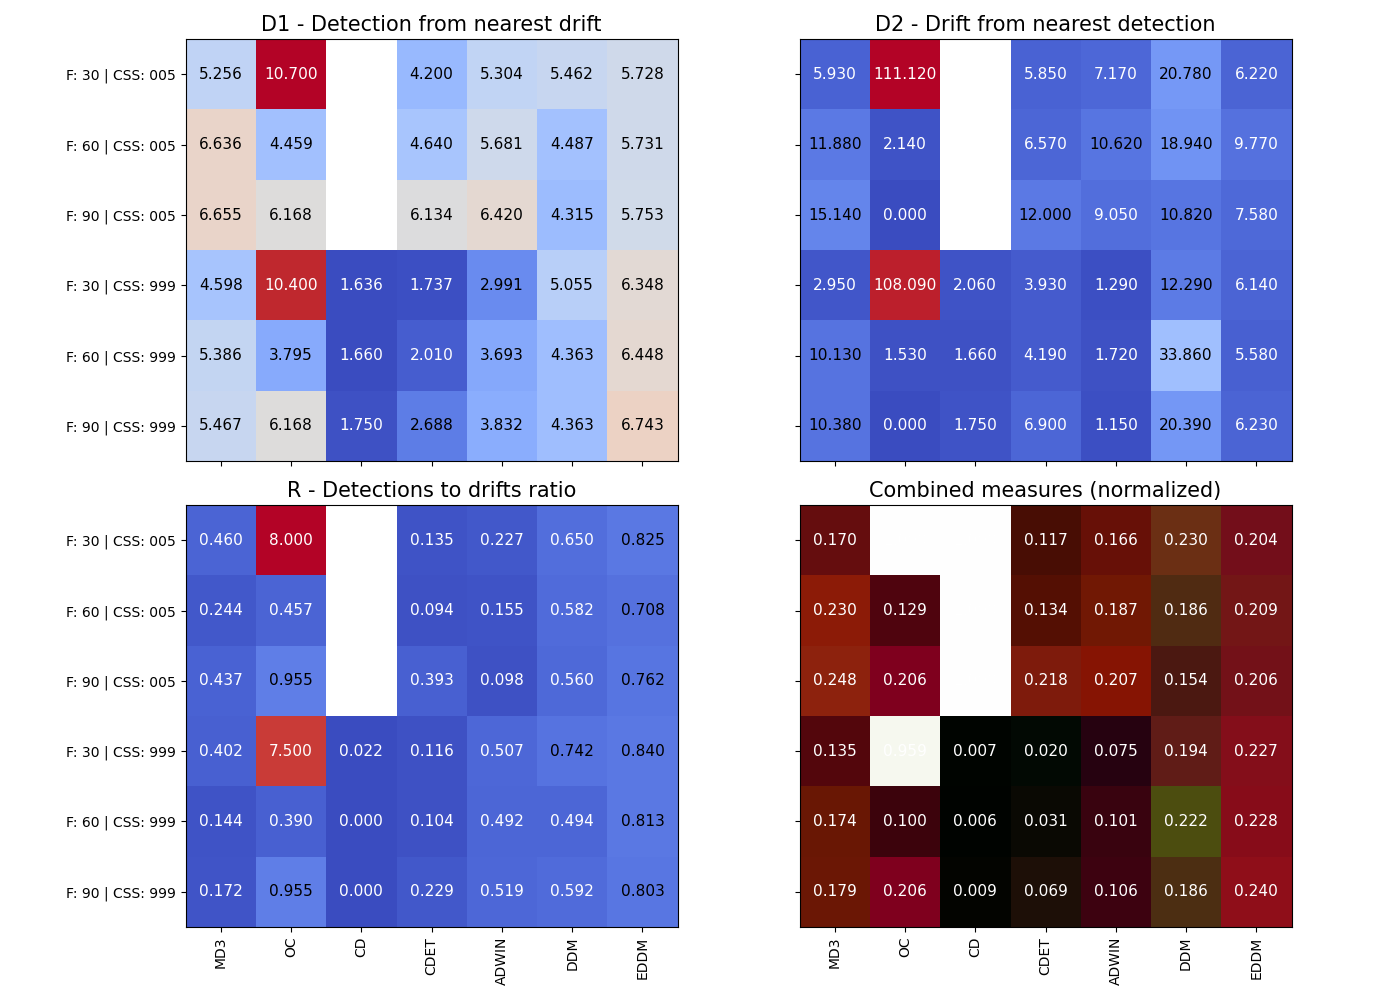
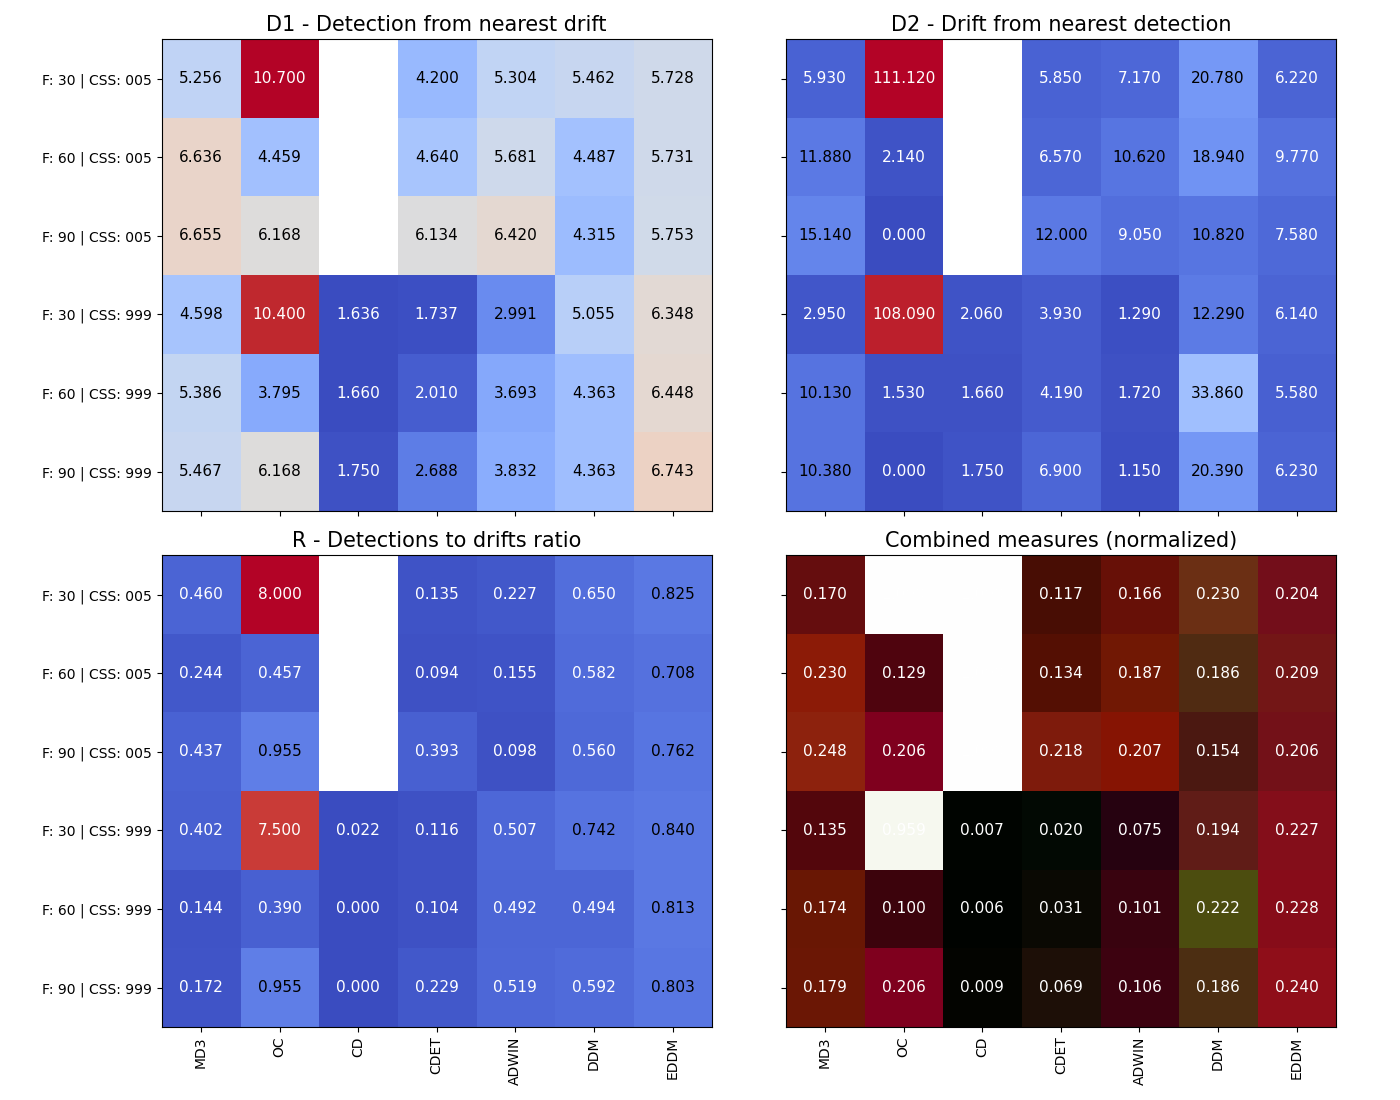
.

diff --git a/analyze_compare.py b/analyze_compare.py
@@ -48,7 +48,7 @@ mean_results[np.isinf(mean_results)] = np.nan
 str_names = str_names.swapaxes(0,1).reshape(-1)
 
     
-fig, ax = plt.subplots(2, 2, figsize=(14,10), sharex=True, sharey=True)
+fig, ax = plt.subplots(2, 2, figsize=(14,11), sharex=True, sharey=True)
 ax = ax.ravel()
 
 ax[0].imshow(mean_results[:,:,0], cmap='coolwarm')
